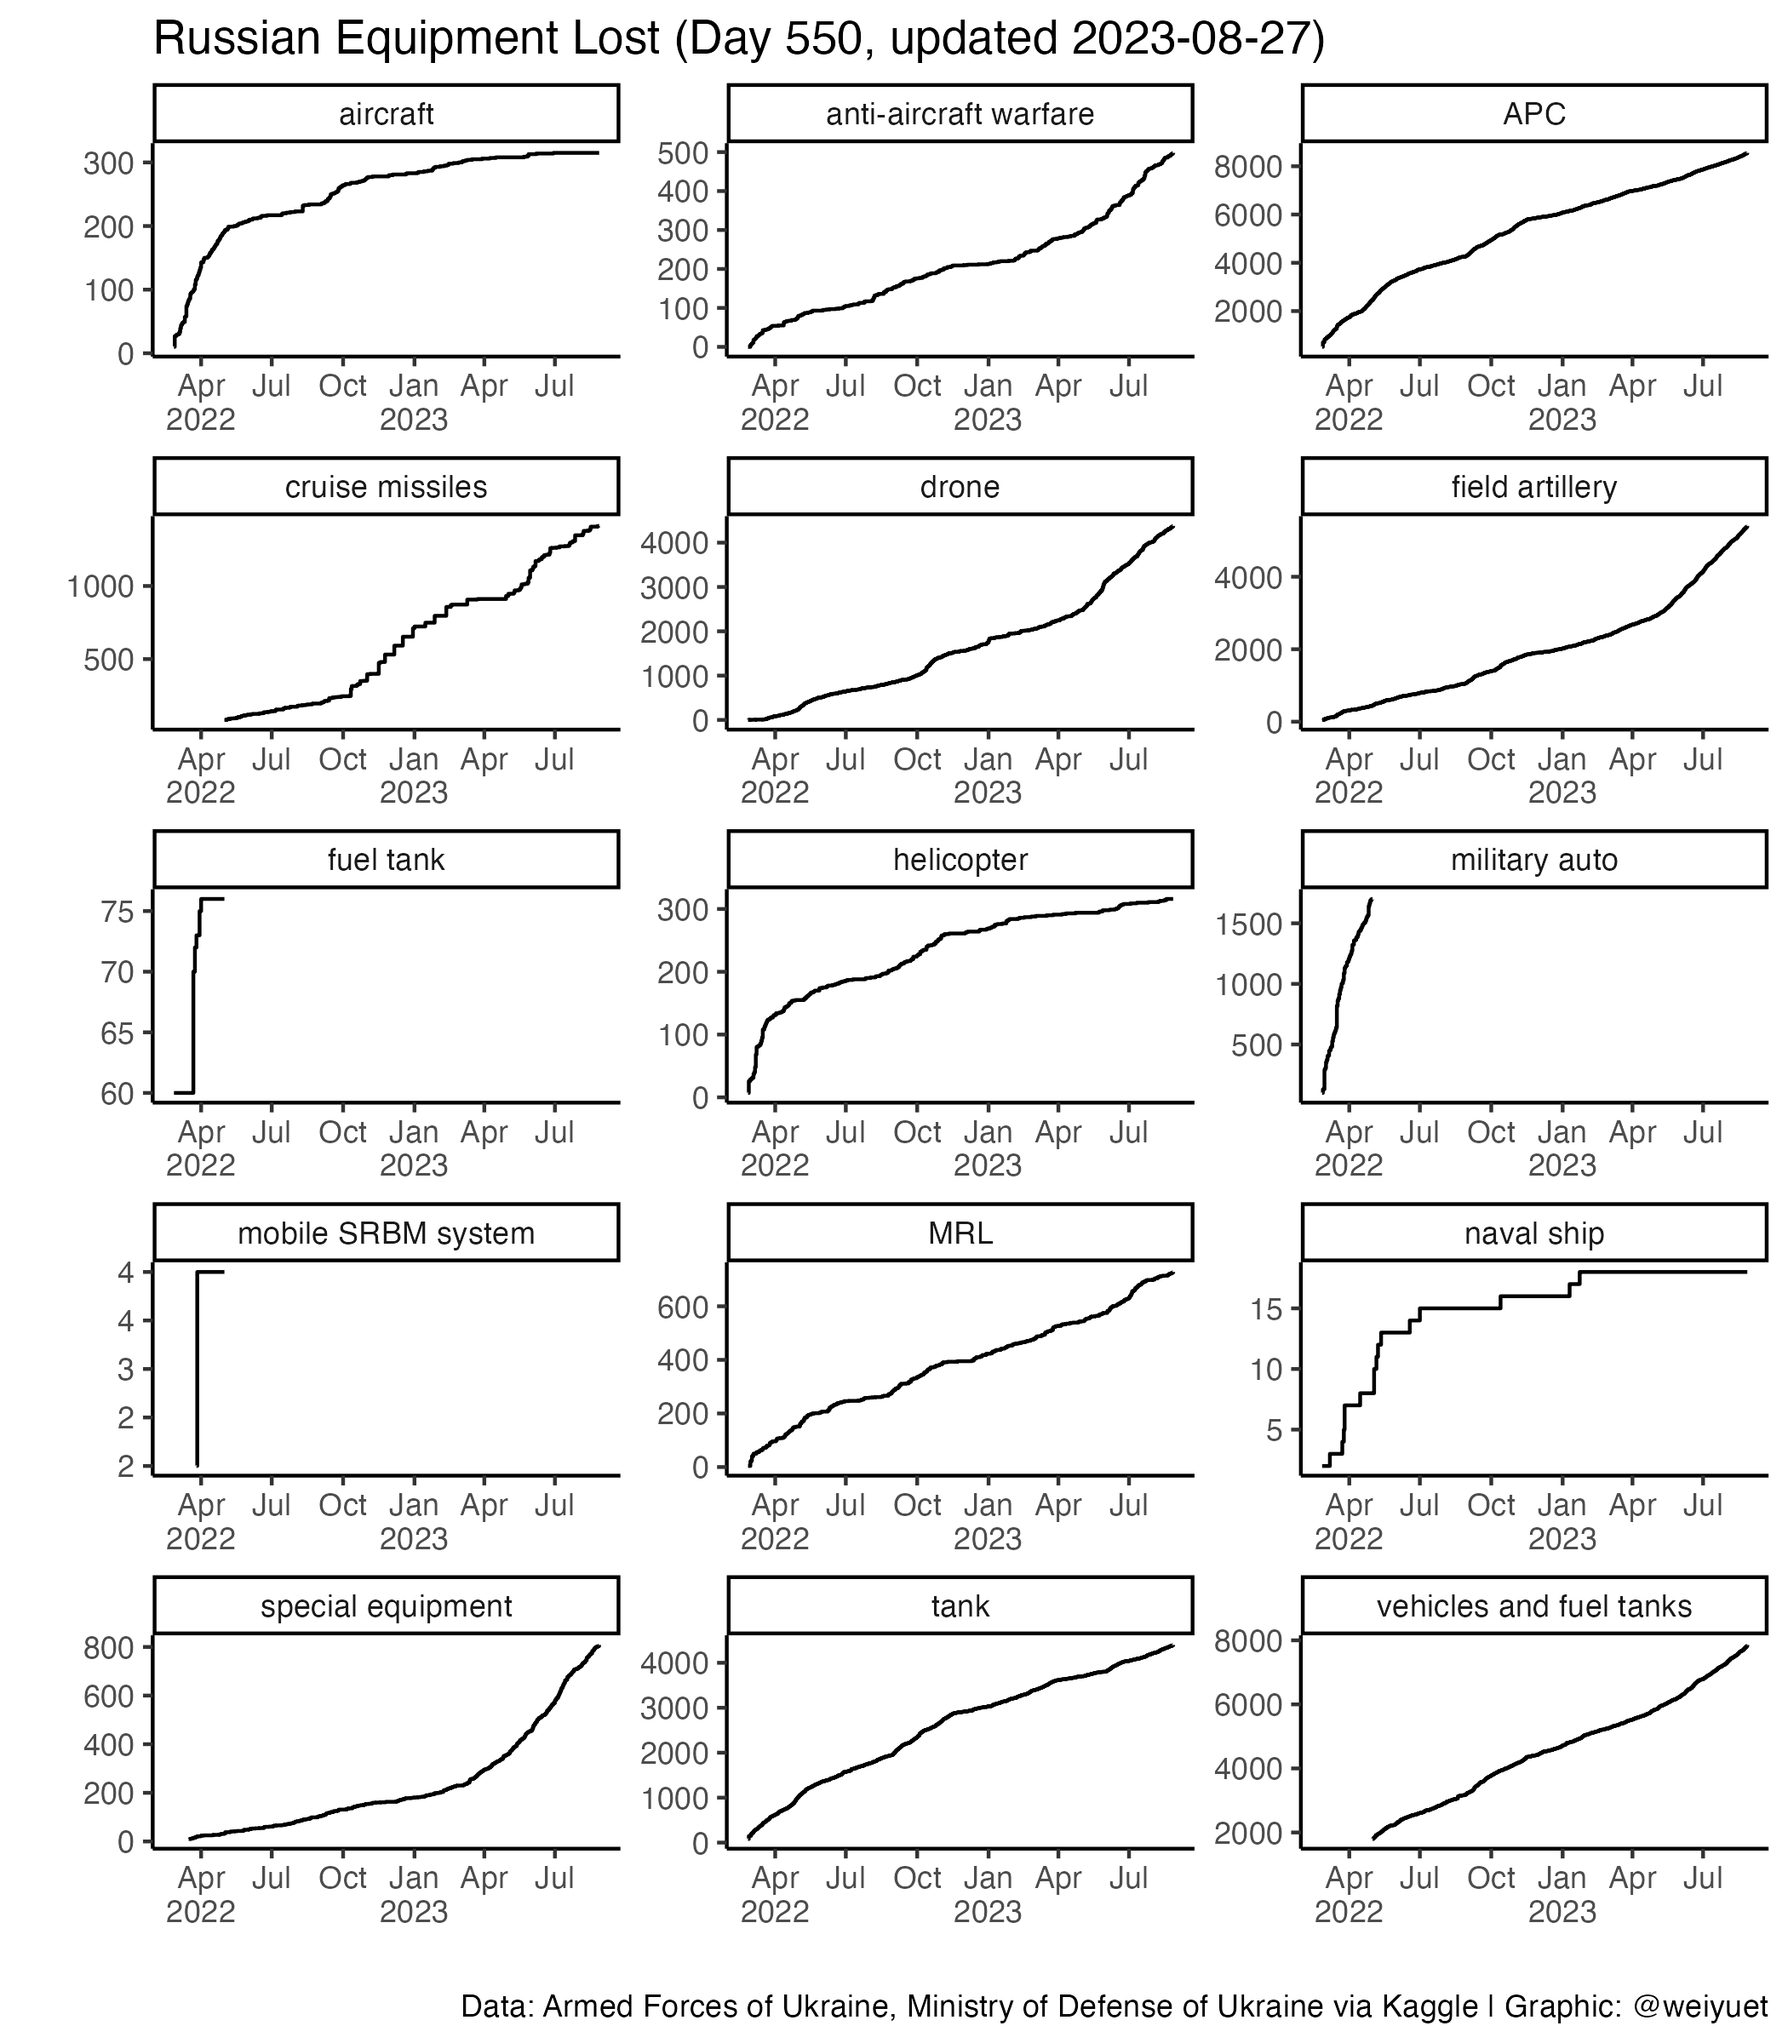
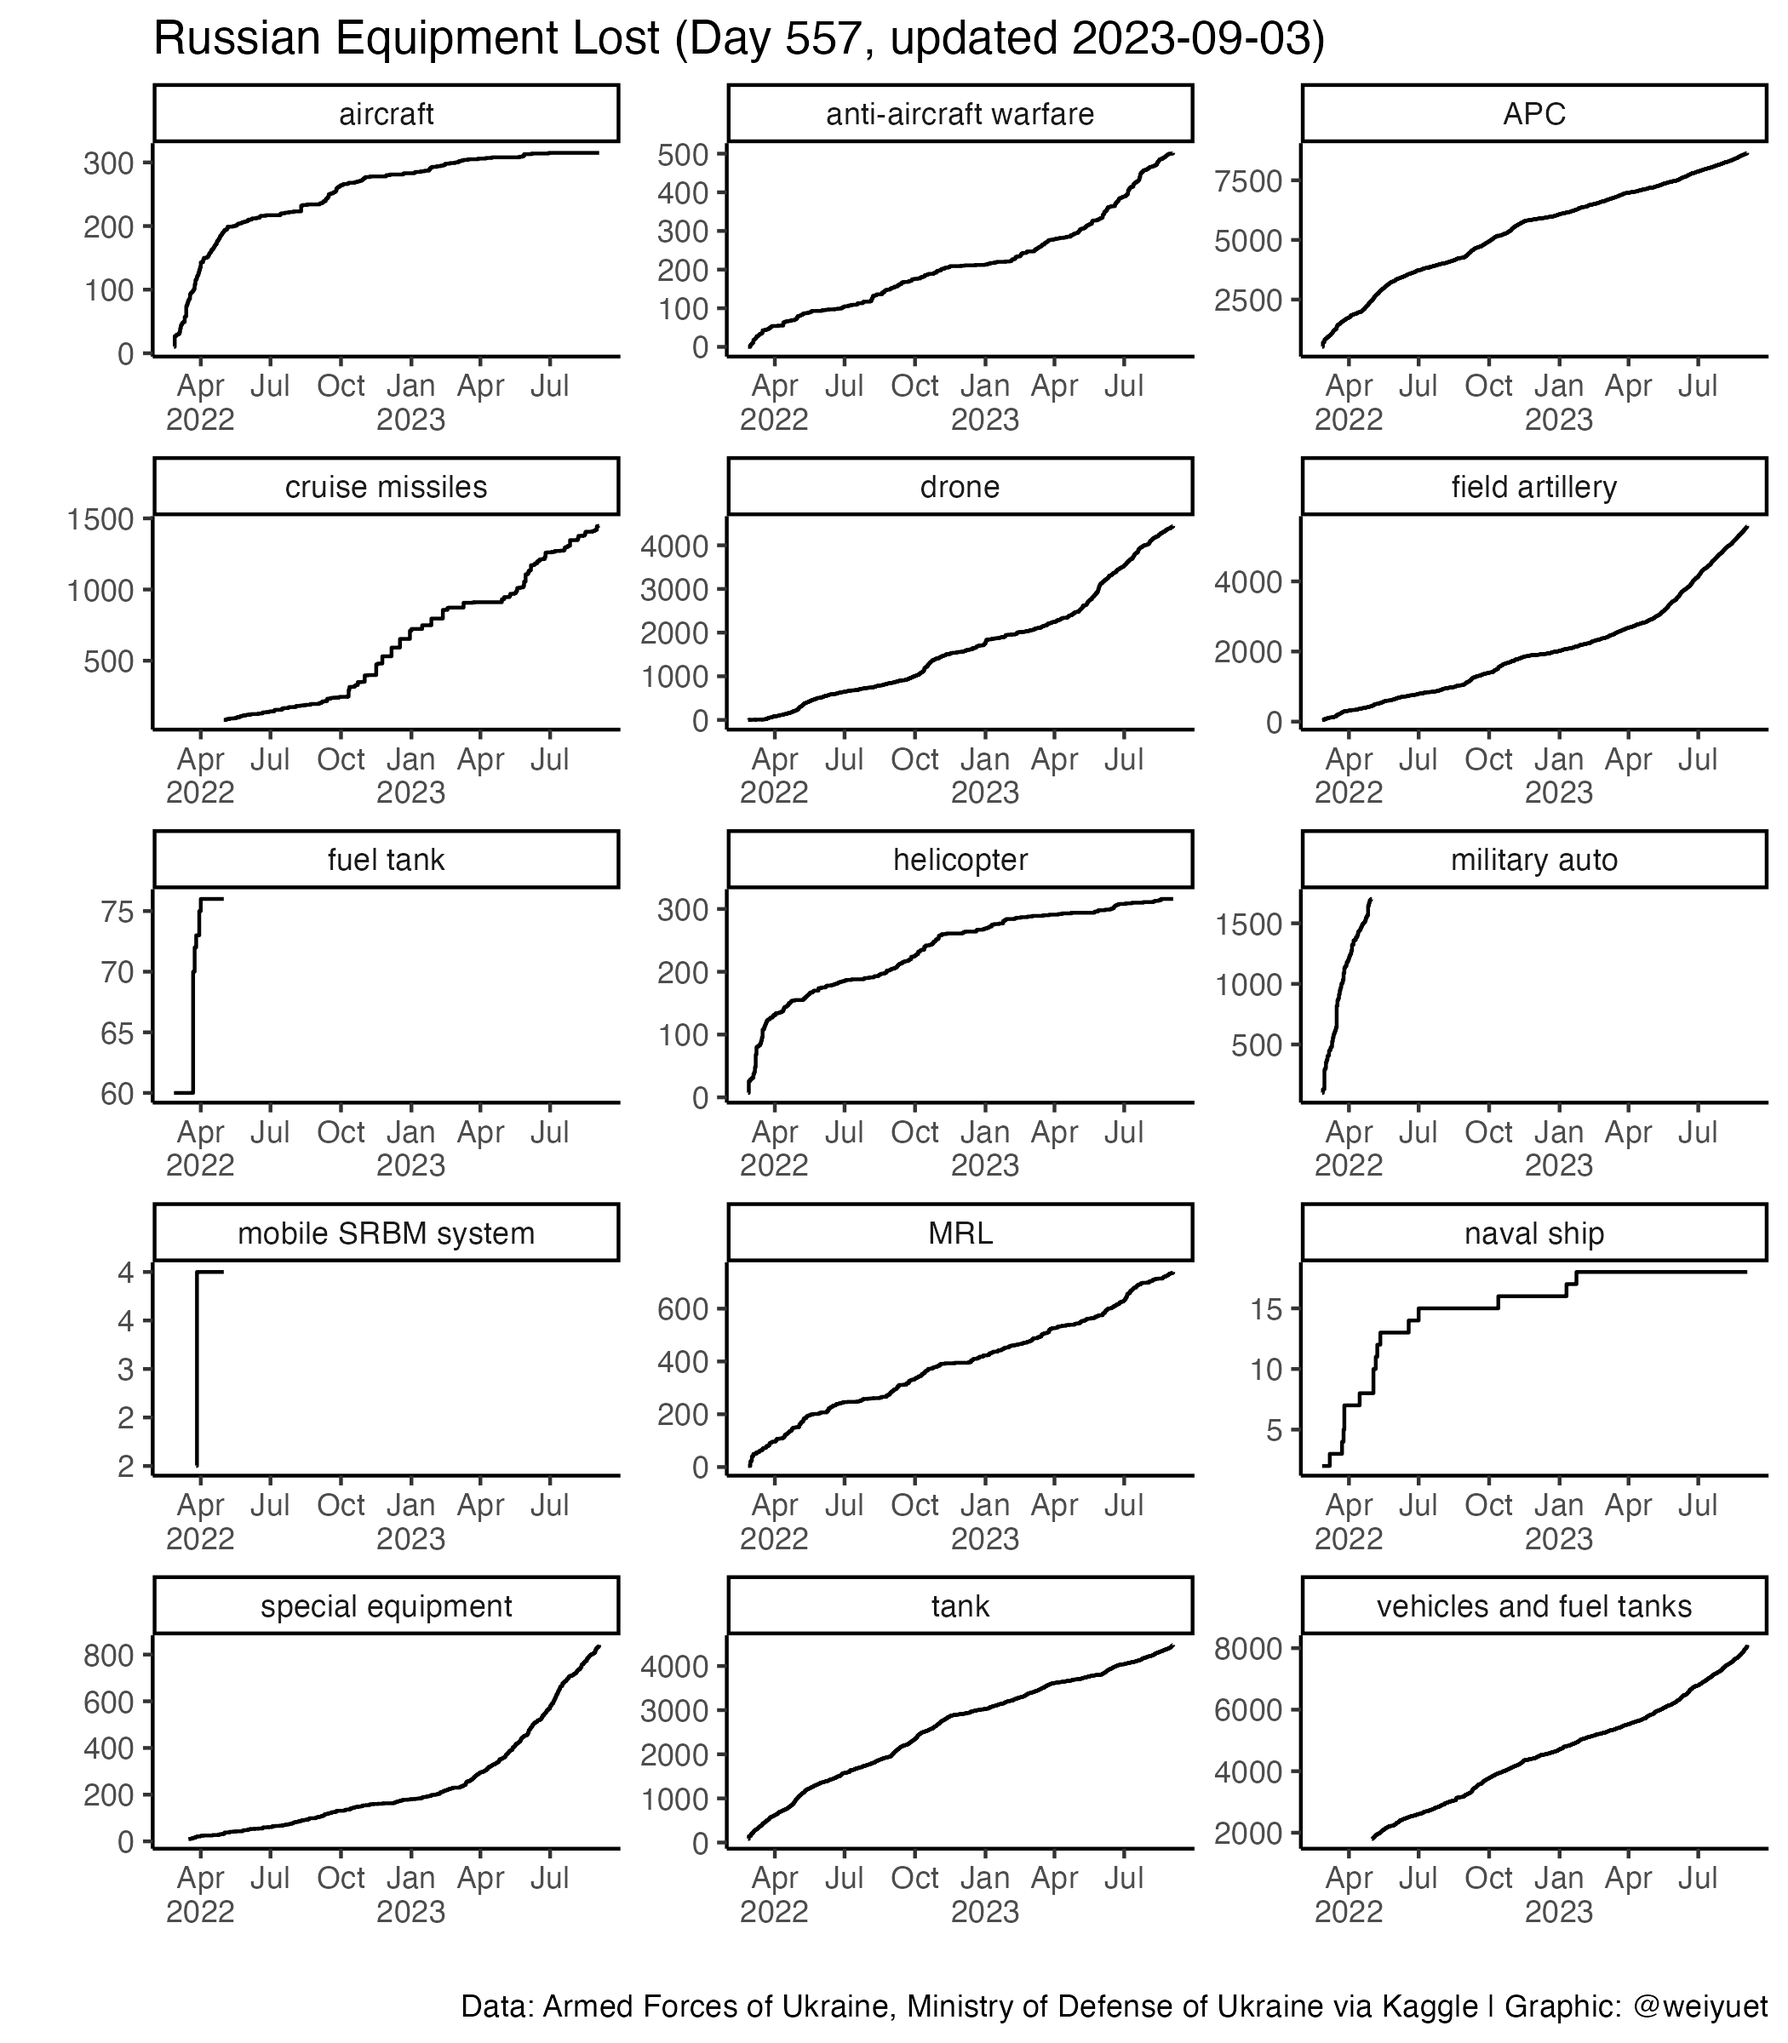
Updated 3 September

diff --git a/README.md b/README.md
@@ -6,7 +6,7 @@ Wong Wei Yuet 2022-05-26
 
   - War casualty data updated daily from [`Petro Ivanyuk's Kaggle`](https://www.kaggle.com/datasets/piterfm/2022-ukraine-russian-war). All data is official and put together by `Petro`
 
-Updated: 2023-08-27
+Updated: 2023-09-03
 
 ## Summary of Conflict
 
